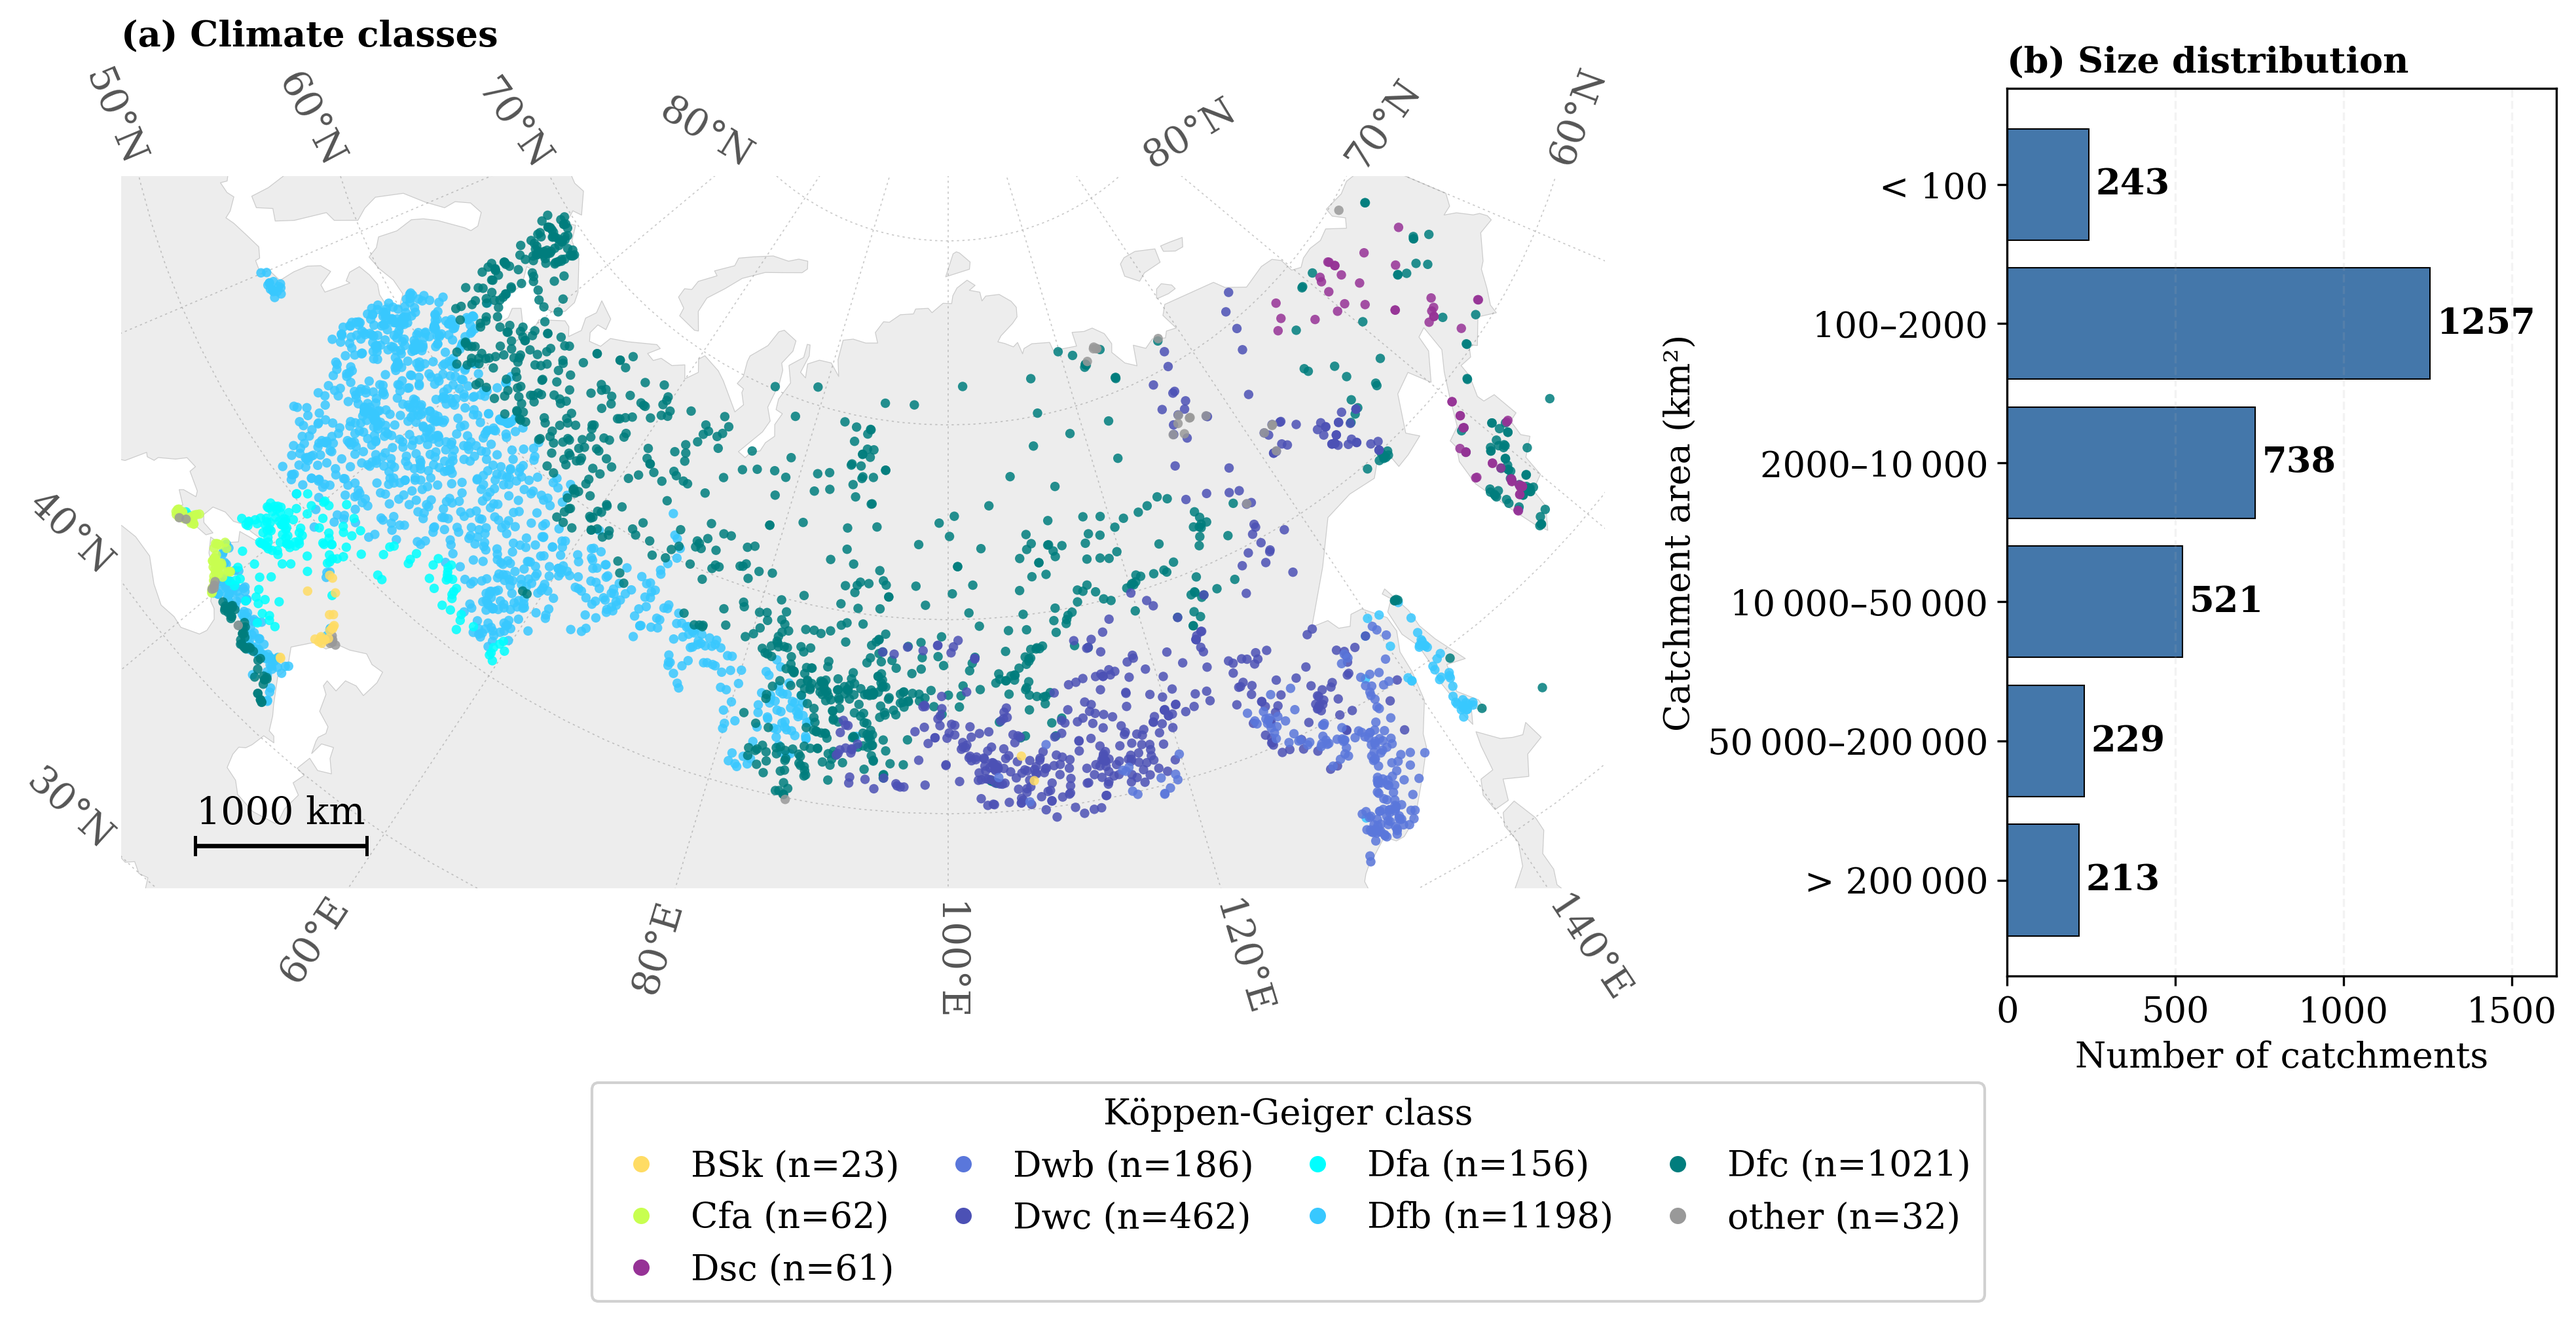
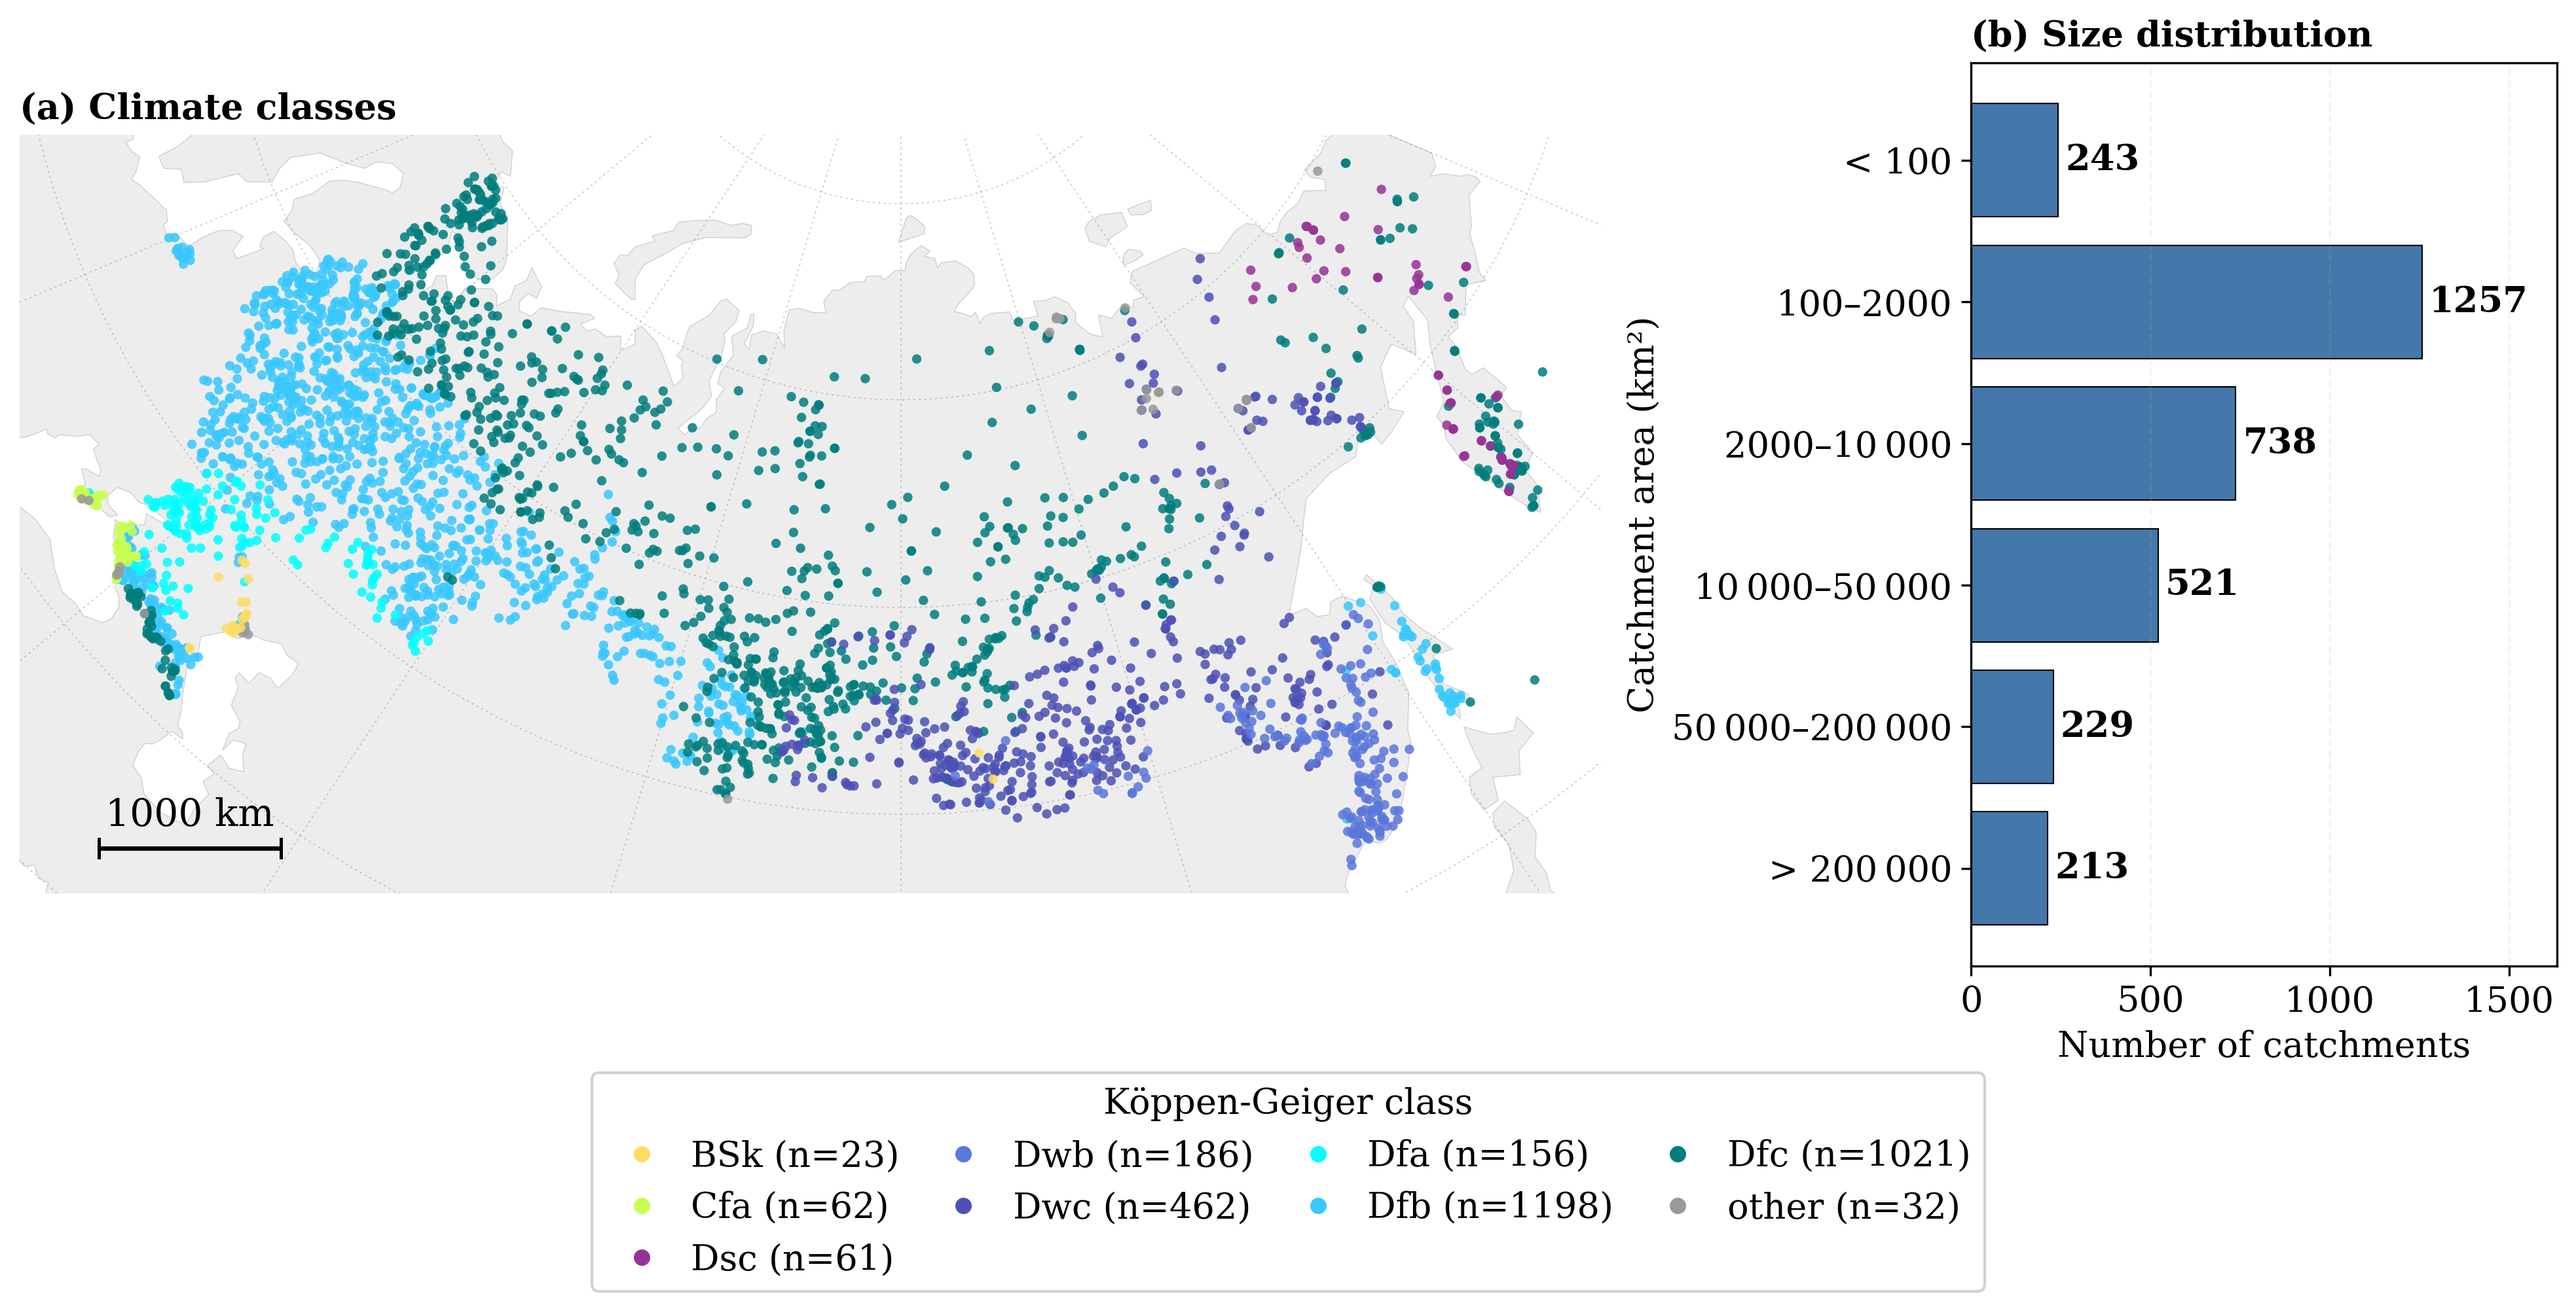
refactor(plots): drop graticule labelling machinery; regenerate map figures
_add_graticule no longer draws labels (rotated conic-tangent labels read
as clutter; user decision 2026-08-28) — _normalize_label_rotation and the
label plumbing through scatter_map/continuous_multiplot deleted, four
generator scripts simplified. plot_workflow_schematic.py removed (Fig 2
is now TikZ, paper/figures_src/). Seven map figures regenerated, md5
parity verified across both image dirs; submodule bump.

Claude-Session: https://claude.ai/code/session_01Cpx3dUV4LhhdShENRW3yTV

diff --git a/src/plots/paper_maps.py b/src/plots/paper_maps.py
@@ -118,87 +118,24 @@ def _hide_frame(ax: Axes) -> None:
     ax.set_yticks([])
 
 
-def _normalize_label_rotation(gl) -> None:  # noqa: ANN001 - cartopy.mpl.gridliner.Gridliner
-    """Patch a Gridliner so its non-inline labels never render past +/-90 degrees.
-
-    Cartopy rotates each label to follow the local gridline tangent (``rotate_labels``,
-    on by default for non-rectangular projections such as this Albers conic): it picks
-    ``rotation`` and ``ha`` together from the raw tangent angle so the label always reads
-    outward from the map, using an internal +/-90-degree band offset by 25 degrees
-    (``self.offset_angle``, uncentered on purpose so a label just past vertical on one side
-    still gets flipped the same way as its neighbours on a *rectangular* grid). On this
-    conic that offset leaves a wedge of angles (past +90 up to +115, and symmetrically
-    below -90) where cartopy keeps the un-flipped pairing even though the result reads
-    upside-down/mirrored - seen on the meridian labels nearest the map's central longitude
-    (100/120E) and on the outer parallel labels once `_add_graticule` starts drawing those
-    too (e.g. 50N at its top-edge crossing).
-
-    The fix re-derives ``rotation`` and ``ha`` together from the same raw angle using a
-    symmetric +/-90 band instead, which keeps the label's outward-facing direction
-    unchanged (only *which* of the two equivalent (rotation, ha) pairs represents it
-    flips) - so it's applied by wrapping the private ``_get_text_specs`` method that
-    computes them, not by tweaking the finished label afterwards. Tweaking rotation alone
-    post hoc was tried and rejected: cartopy renders each label as soon as this method
-    returns to test it against the map frame and decide visibility, so a rotation-only
-    change either lands too late to affect that render (leaving the wrong pixels painted)
-    or, patched before the render, feeds a box cartopy doesn't expect and silently drops
-    labels that should be visible. Recomputing the matched (rotation, ha) pair keeps that
-    render self-consistent, so cartopy's own placement/visibility logic still applies
-    correctly to it. It has to be a patch on the instance, not a one-off fix, because
-    Gridliner recomputes every label - calling this method again - on each draw, e.g. once
-    for the on-screen draw and again at `savefig`.
-    """
-    original = gl._get_text_specs
-
-    def _upright_text_specs(angle, loc, xylabel):
-        kw = original(angle, loc, xylabel)
-        if kw.get("rotation_mode") == "anchor":
-            a = angle
-            if a > 180:
-                a -= 360
-            elif a <= -180:
-                a += 360
-            if -90 < a <= 90:
-                kw["ha"] = "left"
-                kw["rotation"] = a
-            else:
-                kw["ha"] = "right"
-                kw["rotation"] = (a - 180) if a > 90 else (a + 180)
-        return kw
-
-    gl._get_text_specs = _upright_text_specs
-
-
 def _add_graticule(
     ax: Axes,
     *,
     lon_step: int = 20,
     lat_step: int = 10,
-    draw_labels: bool = False,
-    label_size: int = 6,
-    bottom_labels: bool = True,
 ) -> None:
     """Add a subtle lat/lon graticule to a GeoAxes.
 
     Meridians every *lon_step* degrees and parallels every *lat_step* degrees
     are drawn as thin, light-grey dashed lines underneath the data layer.
-    Labels are rendered at *label_size* points when *draw_labels* is True, all
-    kept upright by `_normalize_label_rotation`: longitude along the bottom,
-    and latitude at whichever spine each parallel actually crosses. The
-    network's lowest one or two parallels (~30/40N) cross the left spine, as
-    on a typical mid-latitude map, but this Albers conic curves the higher
-    ones (50N and up) inward as their radius shrinks toward the pole, so they
-    exit through the top spine instead - enabling top labels only for
-    latitude (`top_labels="y"`, longitude stays bottom-only) picks those up
-    at their true crossing rather than leaving them unlabelled or falling
-    back to cartopy's interior ``geo_labels`` placement, which drifts into
-    the data. Set *bottom_labels=False* for the upper panel(s) of a
-    vertically stacked figure sharing one extent, so longitude labels don't
-    collide with the next panel's title.
+    The graticule is deliberately unlabelled: on this Albers conic the labels
+    follow the curved gridline tangents and render rotated at the map edges,
+    which reads as clutter at manuscript scale, so the lines alone carry the
+    orientation cue.
     """
-    gl = ax.gridlines(
+    ax.gridlines(
         crs=_DATA_CRS,
-        draw_labels=draw_labels,
+        draw_labels=False,
         linewidth=0.4,
         color="#888888",
         alpha=0.45,
@@ -207,17 +144,6 @@ def _add_graticule(
         xlocs=list(range(0, 181, lon_step)),
         ylocs=list(range(30, 81, lat_step)),
     )
-    if draw_labels:
-        gl.top_labels = "y"
-        gl.right_labels = False
-        gl.bottom_labels = bottom_labels
-        gl.left_labels = True
-        # The interior placement latitude labels fall back to when they cross neither the
-        # left nor top spine cleanly (see docstring); superseded by `top_labels="y"` above.
-        gl.geo_labels = False
-        gl.xlabel_style = {"size": label_size, "color": "#555555"}
-        gl.ylabel_style = {"size": label_size, "color": "#555555"}
-        _normalize_label_rotation(gl)
 
 
 def add_scale_bar(
@@ -286,9 +212,6 @@ def scatter_map(
     background_gdf: gpd.GeoDataFrame | None = None,
     title_fontsize: int = 12,
     colorbar_ticklabelsize: int = 9,
-    graticule_labels: bool = False,
-    graticule_label_size: int = 7,
-    graticule_bottom_labels: bool = True,
 ) -> Axes:
     """Plot continuous-valued scatter map on a single axis.
 
@@ -332,12 +255,7 @@ def scatter_map(
     # Set extent from data, then draw background clipped to it
     _hide_frame(ax)
     _set_extent_from_data(ax, gdf)
-    _add_graticule(
-        ax,
-        draw_labels=graticule_labels,
-        label_size=graticule_label_size,
-        bottom_labels=graticule_bottom_labels,
-    )
+    _add_graticule(ax)
 
     if background_gdf is not None:
         aea_proj4 = get_russia_projection().proj4_init
@@ -432,8 +350,6 @@ def continuous_multiplot(
     background_gdf: gpd.GeoDataFrame | None = None,
     title_fontsize: int = 12,
     colorbar_ticklabelsize: int = 9,
-    graticule_labels: bool = False,
-    graticule_label_size: int = 7,
 ) -> Figure:
     """Create N-panel scatter maps with colorbars for continuous metrics.
 
@@ -496,10 +412,6 @@ def continuous_multiplot(
 
         edges = bin_intervals.get(metric)
         cb_label = colorbar_labels.get(metric, "")
-        # All panels share one extent, stacked in rows: a non-bottom-row panel's longitude
-        # labels would sit directly above the next row's title, so only the actual bottom
-        # row gets them (matches the fix used for fig_gauge_reliability's stacked panels).
-        is_bottom_row = row == nrows - 1
 
         scatter_map(
             gdf,
@@ -515,9 +427,6 @@ def continuous_multiplot(
             background_gdf=background_gdf,
             title_fontsize=title_fontsize,
             colorbar_ticklabelsize=colorbar_ticklabelsize,
-            graticule_labels=graticule_labels,
-            graticule_label_size=graticule_label_size,
-            graticule_bottom_labels=is_bottom_row,
         )
 
     # Hide unused axes

diff --git a/scripts/plot_gauge_reliability.py b/scripts/plot_gauge_reliability.py
@@ -133,27 +133,19 @@ def load_gauges() -> gpd.GeoDataFrame:
     return gauge
 
 
-def _basemap(
-    ax: plt.Axes, gauge: gpd.GeoDataFrame, aea: ccrs.Projection, *, bottom_labels: bool = True
-) -> None:
+def _basemap(ax: plt.Axes, gauge: gpd.GeoDataFrame, aea: ccrs.Projection) -> None:
     """Shared extent and Natural Earth landmass background for one panel.
 
     Args:
         ax: GeoAxes to draw on.
         gauge: Gauge points defining the shared extent.
         aea: Albers projection.
-        bottom_labels: False for the upper panel of this two-panel stack (both panels
-            share the same extent), so its longitude labels don't collide with the
-            lower panel's title directly beneath it.
     """
     ax.axis("off")
     _set_extent_from_data(ax, gauge)
-    # Map-furniture consistency pass: labelled graticule on every map figure (same style as
-    # fig_gauge_network/fig_precip_comparison). Prints at 0.84\textwidth from a 9.5in source
-    # (~0.62x shrink), so 12pt clears the 7pt floor (12*0.62=7.4).
     from src.plots.paper_maps import _add_graticule
 
-    _add_graticule(ax, draw_labels=True, label_size=12, bottom_labels=bottom_labels)
+    _add_graticule(ax)
     ne_land = gpd.read_file(GEOM_DIR / "ne_land_clipped.gpkg")
     ne_land.to_crs(aea.proj4_init).plot(
         ax=ax, color="#EDEDED", edgecolor="#CCCCCC", linewidth=0.3, zorder=1
@@ -266,7 +258,7 @@ def build_figure(gauge: gpd.GeoDataFrame) -> plt.Figure:
     fig, axes = plt.subplots(
         2, 1, figsize=(9.5, 9.2), subplot_kw={"projection": aea}, constrained_layout=True
     )
-    _basemap(axes[0], gauge, aea, bottom_labels=False)
+    _basemap(axes[0], gauge, aea)
     _basemap(axes[1], gauge, aea)
     _panel_grades(axes[0], gauge, data_crs)
     _panel_reliability(fig, axes[1], gauge, data_crs)

diff --git a/scripts/plot_signature_maps.py b/scripts/plot_signature_maps.py
@@ -119,12 +119,9 @@ def build_figure(
         # 0.95\textwidth from a 16in-wide source, hence each panel prints ~2x wider now: a
         # full \textwidth instead of half of 0.95\textwidth shared between two columns).
         # 14pt source clears the 7pt print floor with margin (14 * 0.59 ~= 8.3pt) without
-        # printing oversized; same figure scale, so the graticule labels below use the same
-        # 14pt.
+        # printing oversized.
         title_fontsize=14,
         colorbar_ticklabelsize=14,
-        graticule_labels=True,
-        graticule_label_size=14,
     )
     # Map-furniture consistency pass: one scale bar per figure (both panels share one
     # extent), placed on panel (a), clear of the Far-East gauge cluster and the top-edge

diff --git a/scripts/regenerate_precip_comparison_figure.py b/scripts/regenerate_precip_comparison_figure.py
@@ -157,10 +157,6 @@ def plot(df: pd.DataFrame, out: Path) -> None:
             colorbar=False,
             title=f"({panel[j]}) {minuend} − {subtrahend}",
             background_gdf=ne,
-            # Editor pre-review: no coordinate reference on the map. ~0.54x shrink to
-            # \textwidth from this 13in figure, so labels need to start well above 7pt.
-            graticule_labels=True,
-            graticule_label_size=14,
         )
     # Map-furniture consistency pass: one scale bar for the figure (both panels share the
     # same extent), placed on panel (a).

diff --git a/scripts/regenerate_gauge_network_figure.py b/scripts/regenerate_gauge_network_figure.py
@@ -217,7 +217,7 @@ def build_figure(gauge: gpd.GeoDataFrame, size_counts: pd.Series) -> plt.Figure:
     # same font floor as the other figures (~0.54x shrink at \textwidth from this 13in figure).
     from src.plots.paper_maps import _add_graticule, add_scale_bar
 
-    _add_graticule(ax_map, draw_labels=True, label_size=14)
+    _add_graticule(ax_map)
     add_scale_bar(ax_map, length_km=1000, fontsize=14)
     ne_land = gpd.read_file(GEOM_DIR / "ne_land_clipped.gpkg")
     ne_land.to_crs(aea.proj4_init).plot(
